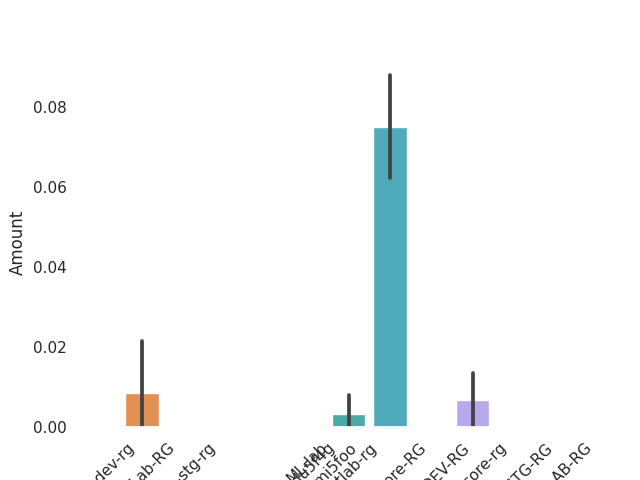
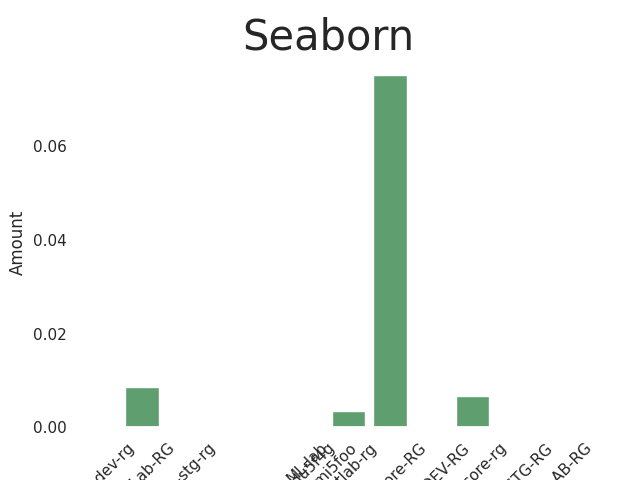
getting rid of error bars

diff --git a/jupyter/notebooks/seaborn/seaborn-01.py b/jupyter/notebooks/seaborn/seaborn-01.py
@@ -11,7 +11,8 @@ df = df[['resource_group','Amount']]
 
 sns.set_theme()
 plt.xticks(rotation=45)
-sns.barplot(data=df, x="resource_group", y="Amount")
+sns.barplot(data=df, x="resource_group", y="Amount", color = "g",ci=None).set_title('Seaborn', fontdict = { 'fontsize': 30})
+sns.set_context('paper', font_scale = 2)
 plt.savefig('save_as_a_transparent2_png.png', transparent=True)
 
 print('Done!!!')
